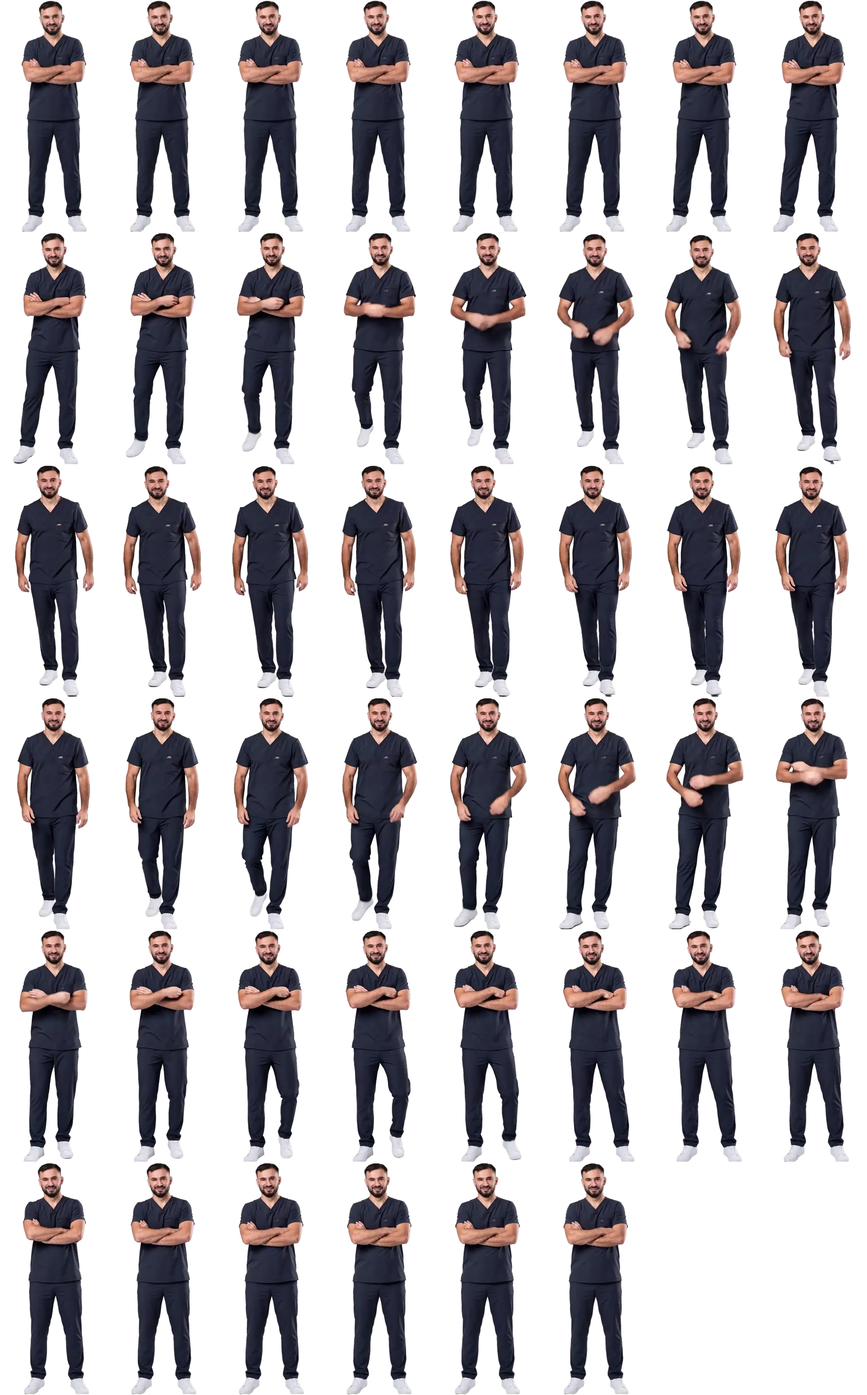
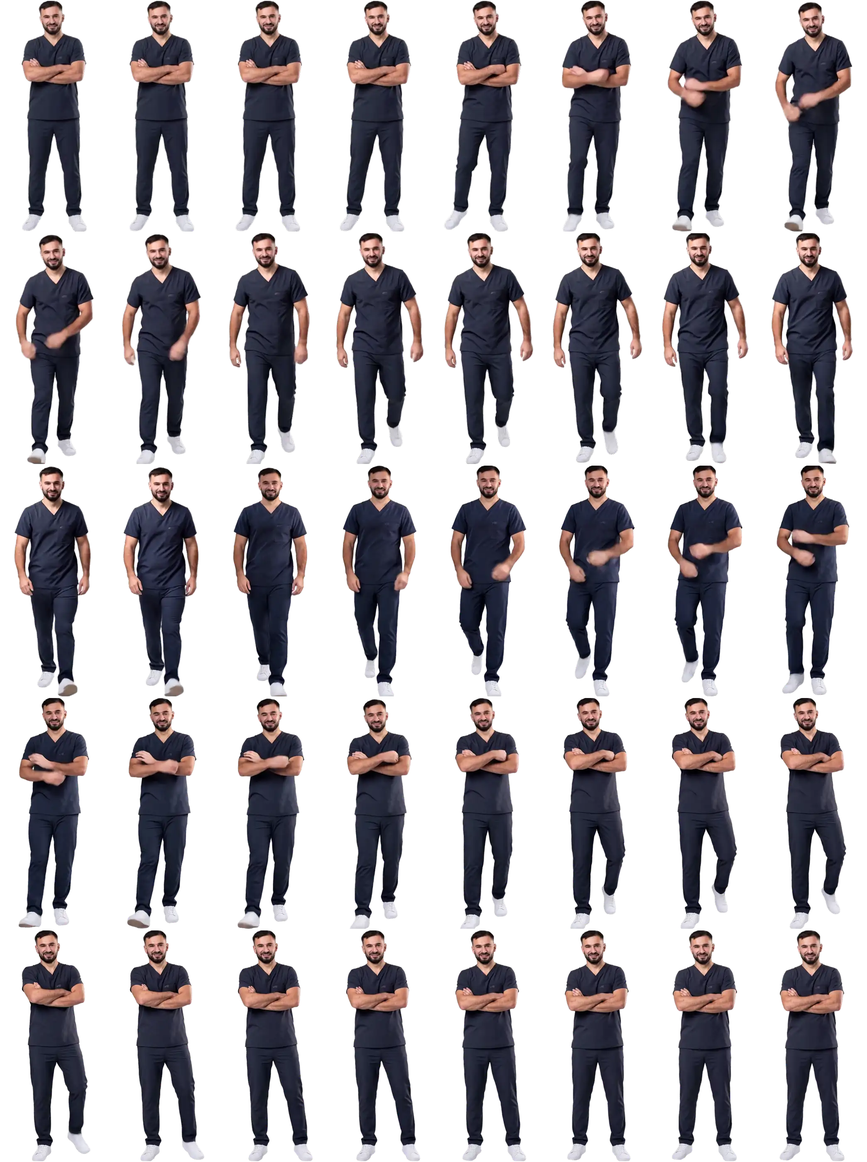
Сияние Севера: Намазов и остальные врачи идут настоящими шагами (#811)
Владелец, 16.11.2026, про Намазова: «У этого врача нет проходки, забыл о нем?»

Причина в самом ролике: при камере, едущей назад вместе с врачом, модель
двигала камеру, а ноги «плыли». У Намазова шагов к нам не было вовсе (одна
стойка 28 кадров подряд), у Кадиева так же со спины.

- Подход всех четырёх врачей переснят стоящей камерой: первый кадр ролика —
  врач далеко, последний — близко (figures/approach.py). Ему приходится
  шагать: ноги чередуются, видно, как ставит стопу. Так же переснят уход
  Кадиева.
- Путь по экрану записан по каждому кадру ленты (p в FIGS, data-p) по росту
  фигуры в ролике: врач смещается и растёт ровно так, как подошёл.
- Из середины вырезан один полный цикл шага там, где ноги и руки в той же
  фазе; шаги идут в 1,3 раза быстрее ролика, смена позы рук втрое. Лента
  2,2–2,3 с, как и раньше.
- Версия в адресах кадров (FIG_V, отпечаток всех tm-*.webp): файлы лежат под
  теми же именами с кэшем на неделю, без версии телефон, уже бывший на сайте,
  показал бы прежнюю ленту с новой разметкой.

Макет (content/proto-bundles/syanie.json) не менялся.

Claude-Session: https://claude.ai/code/session_01Y96RWicpa1Zecqua8BdKub

diff --git a/scripts/protos/syanie/app/site/team.js b/scripts/protos/syanie/app/site/team.js
@@ -13,8 +13,8 @@
    назад — те же кадры с конца). Лента — сетка кадров, её листает transform.
    Первый и последний кадр ленты — та же поза, что кадр врача, поэтому подмена
    не видна. Разворот — настоящий, с профилем: сжатия по ширине нет.
-   Шаги не скользят: по экрану врач смещается сам скрипт (--tx, --ty, --sc по
-   кадрам), и только на том отрезке ленты, где идут ноги (data-go).
+   Шаги не скользят: по экрану врача ведёт сам скрипт (--tx, --ty, --sc по
+   кадрам) по пути, записанному у ленты (data-p или data-go).
    Ленты «к нам» грузятся, когда блок на экране (медленная сеть и экономия
    трафика — по первому касанию врача), «от нас» и разворот — когда врач
    вышел. Нет ленты — врач переезжает плавно, без шагов, кадр лицом перетекает
@@ -60,8 +60,16 @@ function set(g,p){
   if(!p){g.style.removeProperty('--tx');g.style.removeProperty('--ty');g.style.removeProperty('--sc');return}
   g.style.setProperty('--tx',p.tx.toFixed(1)+'px');g.style.setProperty('--ty',p.ty.toFixed(1)+'px');g.style.setProperty('--sc',p.sc.toFixed(4));
 }
-/* Путь по кадрам: врач смещается, только пока идут ноги (отрезок go ленты), почти ровным ходом. */
-function path(i,a,b,go){var g=fig(i);return function(u){var v=(u-go[0])/(go[1]-go[0]);v=v<0?0:v>1?1:v;v=v*.6+v*v*(3-2*v)*.4;
+/* Путь по кадрам. У ленты, снятой стоящей камерой (data-p), путь записан по каждому кадру:
+   насколько врач подошёл в ролике, настолько он сместился и вырос на экране. У прежних лент
+   (data-go) врач смещается, только пока идут ноги, почти ровным ходом. */
+function prog(w){
+  var p=w.getAttribute('data-p');
+  if(p){p=p.split(',').map(Number);var m=p.length-1;return function(u){var x=u*(m+1),j=Math.min(m,Math.floor(x)),k=Math.min(m,j+1);return (p[j]+(p[k]-p[j])*(x-j))/1000}}
+  var go=(w.getAttribute('data-go')||'0,1').split(',').map(Number);
+  return function(u){var v=(u-go[0])/(go[1]-go[0]);v=v<0?0:v>1?1:v;return v*.6+v*v*(3-2*v)*.4};
+}
+function path(i,a,b,w){var g=fig(i),f=prog(w);return function(u){var v=f(u);v=v<0?0:v>1?1:v;
   set(g,{tx:a.tx+(b.tx-a.tx)*v,ty:a.ty+(b.ty-a.ty)*v,sc:a.sc+(b.sc-a.sc)*v})}}
 /* Листает ленту w за её время (data-ms): кадр — сдвигом сетки, tick — доля пути на каждом кадре экрана. */
 function run(s,k,w,rev,tick,done){
@@ -75,7 +83,6 @@ function run(s,k,w,rev,tick,done){
     s.classList.remove('tm-ws','tm-'+k+'-on');if(done)done();
   });
 }
-function goOf(w){return (w.getAttribute('data-go')||'0,1').split(',').map(Number)}
 /* Разворот: кадры настоящего поворота (лицо, профиль, спина); обратно — с конца. */
 function turn(s,back,done){
   ready(s,'t',function(w){
@@ -95,7 +102,7 @@ function enter(i,done){
   ready(s,'wf',function(w){
     if(!w){set(g,to);later(card,500);later(done,900);return}
     s.classList.add('tm-mv');later(card,+w.getAttribute('data-ms')*.62);
-    run(s,'wf',w,false,path(i,HOME,to,goOf(w)),function(){s.classList.remove('tm-mv');done()});
+    run(s,'wf',w,false,path(i,HOME,to,w),function(){s.classList.remove('tm-mv');done()});
   });
 }
 function leave(i,keep,done){
@@ -109,7 +116,7 @@ function leave(i,keep,done){
     ready(s,'wb',function(w){
       if(!w){set(g,null);later(home,900);return}
       s.classList.add('tm-mv');
-      run(s,'wb',w,false,path(i,from,HOME,goOf(w)),function(){set(g,null);s.classList.remove('tm-mv');home()});
+      run(s,'wb',w,false,path(i,from,HOME,w),function(){set(g,null);s.classList.remove('tm-mv');home()});
     });
   });
 }

diff --git a/scripts/protos/syanie/figures/sprite.py b/scripts/protos/syanie/figures/sprite.py
@@ -1,24 +1,36 @@
 # Кадры движения врача для «Наших врачей»: сетка кадров (COLS в ряд), её листает team.js.
-#   python3 -I sprite.py <f|b|t> <видео.mp4> <без-фона.mp4> <кэш-папка> <выход.webp> <рендер лицом.png> [<рендер спиной.png>]
-# f — идёт к нам (рамка кадра лицом), b — уходит (рамка кадра спиной), t — разворот лицом → спиной
-# (рамка плавно переходит от кадра лицом к кадру спиной: концы совпадают с обоими кадрами врача).
+#   python3 -I sprite.py <a|r|f|b|t> <видео.mp4> <без-фона.mp4> <кэш-папка> <выход.webp> <рендер лицом.png> [<рендер спиной.png>] [<масштаб,сдвиг x,сдвиг y>]
+# a — идёт к нам издалека, r — уходит вдаль: камера стоит, врач растёт или уменьшается в кадре
+# (первый и последний кадр ролика — approach.py; последним доводом — где фигура стоит в первом
+# кадре: у подхода числа «far», у ухода «near»). f и b — то же при камере, едущей за врачом
+# (так было сначала: ноги «плыли», у Намазова шагов к нам не было вовсе). t — разворот лицом →
+# спиной (рамка плавно переходит от кадра лицом к кадру спиной: концы совпадают с обоими кадрами
+# врача). Рамка: a, f — кадр лицом; r, b — кадр спиной.
 # Рамка шире кадра врача на PAD с каждой стороны: при шаге и развороте руки и ноги выходят за силуэт.
 # Фон: видео Higgsfield «без фона» приходит на чёрном, без прозрачности, поэтому прозрачность
 # считается сравнением с исходным роликом на сером фоне.
 # В ответе (в FIGS, catalog.mjs): n, cols, tw — сетка; ms — сколько лента играет на сайте;
-# go — доли ленты, между которыми идут ноги: только на этом отрезке врач смещается по экрану,
-# поэтому шаги не «скользят». Тон формы каждого кадра приводится к кадру лицом (tone.py).
+# p (подход издалека) — путь по кадрам ленты, 0…1000, по росту фигуры в ролике; go (уходит) —
+# доли ленты, между которыми идут ноги. По экрану врач смещается только по ним, поэтому шаги не
+# «скользят». Тон формы каждого кадра приводится к кадру лицом (tone.py).
 import json, os, subprocess, sys
 import numpy as np
 from PIL import Image, ImageFilter
 
 kind, vid, nobg, cache, out, front = sys.argv[1:7]
-back = sys.argv[7] if len(sys.argv) > 7 else None
+back = sys.argv[7] if len(sys.argv) > 7 and kind != "a" else None
+place = [float(x) for x in sys.argv[-1].split(",")] if kind in "ar" else None
+FAR = kind in "ar"   # камера стоит, путь врача — по его росту в кадре
 PAD, H, S = 0.32, 560, 0.6
 # Ходьба в роликах Kling медленнее живой (шаг около 0,8 с), поэтому лента играет в SPEED раз
 # быстрее ролика; кадров в ленте — FPS на секунду показа. Уходящий шагает весь ролик (5 с):
 # из середины вырезан кусок до LONG кадров ролика. Разворот — TURN кадров.
 SPEED, FPS, LONG, TURN = 1.6, 18, 68, 18
+# Подход издалека снят в живом темпе: шаги идут чуть быстрее ролика (WALK), а смена позы до и
+# после них (руки расходятся и складываются) — втрое быстрее (POSE): это не шаг, спешки не видно.
+WALK, POSE, LONG_A = 1.3, 3.0, 60
+if kind == "r":
+    WALK = 1.45   # обратно в строй — чуть живее: со спины темп читается меньше
 
 
 def body_box(im):
@@ -63,11 +75,21 @@ vw, vh = M[0].size
 small = [np.asarray(m.split()[3].resize((96, 172)), dtype=np.float32) / 255 for m in M]
 fr = Image.open(front).convert("RGBA")
 boxf = [v * vw / fr.width for v in body_box(fr)]
+def placed(im):
+    """Рамка фигуры в первом кадре ролика: рендер (шириной 3072) в масштабе place[0], сдвинут на place[1], place[2]."""
+    s0, ox, oy = place
+    k = 3072 / im.width
+    bb = [v * k for v in body_box(im)]
+    return [(bb[0] * s0 + ox) * vw / 3072, (bb[1] * s0 + oy) * vw / 3072, (bb[2] * s0 + ox) * vw / 3072, (bb[3] * s0 + oy) * vw / 3072]
+
+
+if kind == "a":
+    boxf = placed(fr)
 if back:
     bk = Image.open(back).convert("RGBA")
-    boxb = [v * vw / bk.width for v in body_box(bk)]
+    boxb = placed(bk) if kind == "r" else [v * vw / bk.width for v in body_box(bk)]
 
-base = boxb if kind == "b" else boxf
+base = boxb if kind in "br" else boxf
 ar = max((b[2] - b[0]) / (b[3] - b[1]) for b in ([boxf, boxb] if kind == "t" else [base]))
 tw = round(H * ar * (1 + 2 * PAD))
 
@@ -95,8 +117,10 @@ def tile(i, u=0.0, size=None):
         b = [boxf[q] + (boxb[q] - boxf[q]) * u for q in range(4)]
         hh, cx, bot = b[3] - b[1], (b[0] + b[2]) / 2, b[3]
     else:
+        # Рамка растёт вместе с фигурой (в подходе издалека — почти вдвое): её середина и низ
+        # отстоят от середины корпуса и от подошв на то же, что в первом кадре, в масштабе фигуры.
         k = hs[i] / hs[0]
-        hh, cx, bot = (base[3] - base[1]) * k, (base[0] + base[2]) / 2 + (cs[i] - cs[0]), base[3] + (ys[i] - ys[0])
+        hh, cx, bot = (base[3] - base[1]) * k, cs[i] + ((base[0] + base[2]) / 2 - cs[0]) * k, ys[i] + (base[3] - ys[0]) * k
     ww = hh * tw / H
     box = (round(cx - ww / 2), round(bot - hh), round(cx + ww / 2), round(bot))
     c = Image.new("RGBA", (box[2] - box[0], box[3] - box[1]), (0, 0, 0, 0))
@@ -123,6 +147,40 @@ if kind == "t":
     i1 = min(L - 2, L - next(i for i, d in enumerate(reversed(d1)) if d > 0.012) + 1)
     seq = [0] + list(range(i0, i1 + 1)) + [L - 1]
     note["span"] = [i0, i1, L]
+elif FAR:
+    # Камера стоит: врач растёт в кадре (подходит) или уменьшается (уходит), и его рост в кадре —
+    # точная мера пути. Идёт он там, где рост меняется.
+    h0, h1 = float(np.median(hs[:5])), float(np.median(hs[-5:]))
+    grow = np.maximum.accumulate(np.clip((hs - h0) / (h1 - h0), 0, 1))
+    w0 = int(np.where(grow < 0.02)[0][-1])
+    w1 = int(np.where(grow > 0.98)[0][0])
+    seq = list(range(L))
+    note["walk"] = [w0, w1, L]
+    note["grow"] = round(h1 / h0, 3)
+    if w1 - w0 > LONG_A + 8:
+        # Шагов в ролике больше, чем нужно пути по экрану: из середины вырезан целый шаг-другой
+        # там, где ноги и руки в той же фазе (кадры выровнены по росту, поэтому сравнимы).
+        def feat(i):
+            t = np.asarray(tile(i, size=SM), dtype=np.float32) / 255
+            a = t[..., 3]
+            return np.stack([a, t[..., :3].mean(axis=2) * a])
+        F = {i: feat(i) for i in range(w0, w1 + 1)}
+        want, best, land = (w1 - w0) - LONG_A, None, {}
+        for a_ in range(w0 + 10, w1 - 10):
+            for cut in range(max(8, want - 12), want + 13):
+                b_ = a_ + cut
+                if b_ > w1 - 10:
+                    continue
+                e = sum(float(np.abs(F[a_ + q] - F[b_ + q]).mean()) for q in (-2, -1, 0, 1, 2)) / 5
+                land[cut] = min(land.get(cut, 9), e)
+                if best is None or e < best[0]:
+                    best = (e, a_, b_)
+        e, a_, b_ = best
+        seq = [i for i in seq if i <= a_ or i > b_]
+        grow = np.where(np.arange(L) > b_, grow - (grow[b_] - grow[a_]), grow)
+        grow = grow / grow[-1]
+        note["cut"] = [a_, b_, round(e, 4)]
+        note["land"] = {k: round(v, 3) for k, v in sorted(land.items())}
 else:
     # Признаки кадра: силуэт и светлое в нём (кроссовки), в рамке плитки. Ноги — нижние 45%.
     def feat(i):
@@ -160,10 +218,19 @@ else:
         note["cut"] = [a_, b_, round(e, 4)]
 note["len"] = len(seq)
 
-ms = 840 if kind == "t" else round((len(seq) - 1) / 24 / SPEED * 1000)
-n = TURN if kind == "t" else min(48, round(ms / 1000 * FPS))
-COLS = 6 if n <= 36 else 8
-pick = [seq[round(i * (len(seq) - 1) / (n - 1))] for i in range(n)]
+if FAR:
+    # Время ленты: кадры ролика идут с разной скоростью (поза быстро, шаги живо), лента — ровно.
+    dt = np.array([1 / (WALK if w0 <= i < w1 else POSE) for i in seq[:-1]])
+    at = np.concatenate([[0], np.cumsum(dt)])
+    ms = round(float(at[-1]) / 24 * 1000)
+    n = min(48, round(ms / 1000 * FPS))
+    COLS = 6 if n <= 36 else 8
+    pick = [seq[int(round(float(np.interp(j * at[-1] / (n - 1), at, np.arange(len(seq))))))] for j in range(n)]
+else:
+    ms = 840 if kind == "t" else round((len(seq) - 1) / 24 / SPEED * 1000)
+    n = TURN if kind == "t" else min(48, round(ms / 1000 * FPS))
+    COLS = 6 if n <= 36 else 8
+    pick = [seq[round(i * (len(seq) - 1) / (n - 1))] for i in range(n)]
 tiles = []
 for j, i in enumerate(pick):
     u = j / (n - 1)
@@ -186,7 +253,10 @@ for j, t in enumerate(tiles):
     sheet.paste(t, ((j % COLS) * tw, (j // COLS) * H))
 sheet.save(out, "WEBP", quality=54, alpha_quality=40, method=6)
 res = {"kind": kind, "n": n, "tw": tw, "th": H, "cols": COLS, "rows": rows, "bytes": os.path.getsize(out), "ms": ms, "note": note}
-if kind != "t":
+if FAR:
+    # Путь по кадрам ленты, 0…1000: врач на экране смещается и растёт ровно так, как шёл в ролике.
+    res["p"] = [int(round(float(grow[i]) * 1000)) for i in pick]
+elif kind != "t":
     ja = next(j for j, i in enumerate(pick) if i >= w0)
     jb = max(j for j, i in enumerate(pick) if i <= w1)
     res["go"] = [round(ja / (n - 1), 2), round(jb / (n - 1), 2)]

diff --git a/scripts/protos/syanie/figures/approach.py b/scripts/protos/syanie/figures/approach.py
@@ -1,0 +1,45 @@
+# Первый и последний кадр ролика «врач идёт к камере издалека»: тот же рендер врача на сером
+# фоне, далеко (мелко, ноги выше) и близко (как в рендере). Камера стоит, врач растёт в кадре,
+# поэтому модели приходится делать настоящие шаги (при камере, едущей назад, ноги «плыли»).
+#   python3 -I approach.py <ключ> <папка рендеров> <папка выхода> [back]
+# С «back» — те же два кадра со спины (врач уходит от камеры: первый кадр близко, последний далеко).
+# Печатает, где стоит фигура в обоих кадрах (масштаб и сдвиг в точках рендера): числа первого
+# кадра ролика нужны sprite.py (подход — «far», уход — «near»).
+import json, os, sys
+import numpy as np
+from PIL import Image, ImageFilter, ImageDraw
+sys.path.insert(0, os.path.dirname(os.path.abspath(__file__)))
+from tone import solo, defringe
+
+key, SRC, OUT = sys.argv[1:4]
+BACK = len(sys.argv) > 4 and sys.argv[4] == "back"
+W, H = 3072, 5504
+FAR, NEAR = (0.47, 0.70), (0.90, 0.975)   # рост фигуры в долях кадра и где стоят ноги
+
+
+def body_box(im):
+    return im.split()[3].point(lambda v: 255 if v > 140 else 0).getbbox()
+
+
+a = np.asarray(Image.open(f"{SRC}/f-{key}.png").convert("RGB"), dtype=np.float32)
+top, bot = a[40:200, 40:400].reshape(-1, 3).mean(0), a[-260:-60, 40:400].reshape(-1, 3).mean(0)
+g = np.linspace(0, 1, H)[:, None, None]
+bg = Image.fromarray(np.broadcast_to(top[None, None, :] * (1 - g) + bot[None, None, :] * g, (H, W, 3)).astype(np.uint8))
+cut = Image.open(f"{SRC}/{'k' if BACK else 'c'}-{key}.png").convert("RGBA")
+if cut.size != (W, H):
+    cut = cut.resize((W, round(cut.height * W / cut.width)), Image.LANCZOS)   # рендер спиной вдвое мельче
+cut = defringe(solo(cut), 6, 2)
+bx = body_box(cut)
+res = {}
+for name, (frac, feet) in (("far", FAR), ("near", NEAR)):
+    s = frac * H / (bx[3] - bx[1])
+    fig = cut.resize((round(cut.width * s), round(cut.height * s)), Image.LANCZOS)
+    ox, oy = round(W / 2 - (bx[0] + bx[2]) / 2 * s), round(feet * H - bx[3] * s)
+    fw = (bx[2] - bx[0]) * s
+    sh = Image.new("L", (W, H), 0)
+    ImageDraw.Draw(sh).ellipse((W / 2 - fw * .6, feet * H - fw * .13, W / 2 + fw * .6, feet * H + fw * .03), fill=80)
+    out = Image.composite(Image.new("RGB", (W, H), (60, 62, 66)), bg, sh.filter(ImageFilter.GaussianBlur(fw * .06)))
+    out.paste(fig, (ox, oy), fig)
+    out.resize((1536, 2752), Image.LANCZOS).save(f"{OUT}/a-{key}-{'b' if BACK else ''}{name}.jpg", quality=93)
+    res[name] = {"s": round(s, 5), "ox": ox, "oy": oy}
+print(json.dumps(res))

diff --git a/scripts/protos/syanie/figures/README.md b/scripts/protos/syanie/figures/README.md
@@ -8,24 +8,30 @@
 | Файл | Что это | Чем собран |
 | --- | --- | --- |
 | `tm-<ключ>.webp`, `tm-<ключ>-b.webp` | врач лицом и спиной, высота 1200 | `stills.py` |
-| `tm-<ключ>-wf.webp` | идёт к нам | `sprite.py f` |
-| `tm-<ключ>-wb.webp` | уходит | `sprite.py b` |
+| `tm-<ключ>-wf.webp` | идёт к нам | `sprite.py a` |
+| `tm-<ключ>-wb.webp` | уходит | `sprite.py b` (Кадиев: `sprite.py r`) |
 | `tm-<ключ>-t.webp` | разворот лицом → спиной (обратно играет с конца) | `sprite.py t` |
 
-Числа, которые печатает `sprite.py` (`n`, `cols`, `tw`, `ms`, `go`), стоят в `FIGS`
-(`../catalog.mjs`); высота кадра ленты — `FIG_H`. Поменяли ленту — поменяли и `FIGS`,
-это держит тест «Наши врачи» в `tests/syanie-app.test.ts`.
+Числа, которые печатает `sprite.py` (`n`, `cols`, `tw`, `ms`, `p` или `go`), стоят в `FIGS`
+(`../catalog.mjs`); высота кадра ленты — `FIG_H`. Поменяли ленту или кадр — поменяли `FIGS`
+и версию в адресах: `node scripts/protos/syanie/figures/version.mjs write` (`FIG_V`: файлы
+лежат под теми же именами с кэшем на неделю). Это держит тест «Наши врачи» в
+`tests/syanie-app.test.ts`.
 
 ## Порядок
 
 1. Рендеры Nano Banana Pro по фото клиники: лицом на сером фоне (`f-<ключ>.png`), он же без
    фона (`c-<ключ>.png`), спиной без фона (`k-<ключ>.png`).
-2. Ролики Kling 3.0 (pro, 9:16, 5 с, без звука), первый и последний кадр заданы рендерами:
-   к нам (лицом → лицом), от нас (спиной → спиной), разворот (лицом → спиной).
+2. Ролики Kling 3.0 (pro, 9:16, 5 с, без звука), первый и последний кадр заданы:
+   разворот (рендер лицом → рендер спиной); ходьба — **стоящей камерой**: врач далеко →
+   близко (к нам) или близко → далеко (от нас), оба кадра пишет `approach.py` из рендера.
+   В запросе: камера не двигается и не приближает, шаги видны, ноги чередуются, реальный темп.
 3. У каждого ролика версия без фона (`remove_background`): она приходит на чёрном, без
    прозрачности, поэтому прозрачность считает `sprite.py` сравнением с исходным роликом.
 4. `python3 -I stills.py <папка рендеров> public/protos/syanie`
-5. `python3 -I sprite.py <f|b|t> <ролик> <ролик без фона> <папка кэша> <выход.webp> c-<ключ>.png [k-<ключ>.png]`
+5. `python3 -I sprite.py <a|r|f|b|t> <ролик> <ролик без фона> <папка кэша> <выход.webp> c-<ключ>.png [k-<ключ>.png] [<где фигура в первом кадре>]`
+   (`a`, `r` — стоящая камера, последним доводом числа из `approach.py`; `f`, `b` — прежние
+   ролики, где камера едет за врачом).
 
 Нужны `python3` с Pillow и numpy и `ffmpeg`.
 
@@ -33,12 +39,18 @@
 
 - **Разворот настоящий.** Сжатие кадра по ширине выглядело «врачом толщиной 1 мм»
   (владелец, 16.11.2026), поэтому поворот снят роликом: лицо, три четверти, профиль, спина.
-- **Шаги не скользят.** Камера в ролике отстаёт, фигура в середине ходьбы мельче и смещена:
-  каждый кадр приведён к росту и месту первого. По экрану врача ведёт `team.js` по тем же
-  кадрам и только на отрезке `go`, где идут ноги.
-- **Скорость.** Ходьба в роликах медленнее живой (шаг около 0,8 с), лента играет в 1,6 раза
-  быстрее ролика. У идущего к нам ходьба целиком (вырез давал скачок рук: врач разводит их
-  и снова складывает), у уходящего из середины вырезан кусок там, где шаг совпадает.
+- **Шаги настоящие только при стоящей камере.** Первые ролики ходьбы сняты камерой, едущей
+  за врачом («он остаётся того же размера»): модель двигала камеру, а ноги «плыли». У Намазова
+  шагов к нам не было вовсе (владелец, 16.11.2026: «У этого врача нет проходки, забыл о нем?»),
+  у Кадиева — от нас. Когда камера стоит, а врач идёт издалека, ему приходится шагать.
+  Новый ролик ходьбы — только так.
+- **Шаги не скользят.** Каждый кадр приведён к росту и месту первого, а рост врача в ролике
+  стоящей камеры — точная мера пути: он записан по кадрам (`p`), и `team.js` двигает и
+  увеличивает врача на экране ровно так же. У прежних роликов вместо этого отрезок `go`.
+- **Скорость.** Подход: шаги в 1,3 раза быстрее ролика (уход Кадиева — в 1,45), смена позы
+  рук до и после — втрое; из середины вырезан один полный цикл шага там, где ноги и руки в
+  той же фазе (в ответе `land` видно дно на длине цикла, около 29 кадров). Прежние ролики
+  ухода медленнее живых (шаг около 0,8 с) и идут в 1,6 раза быстрее.
 - **Тон формы.** Со спины рендер и ролик светлее: форма «меняла цвет» на развороте. Тон
   ткани каждого кадра приведён к кадру лицом (`tone.py`), светлая кайма фона по краю
   вырезки убрана, лишние пятна тени тоже.
@@ -55,5 +67,8 @@ kadiev `b3775c50-1512-4d5c-96a0-b1e047346c2a`. Спиной: doszhanov
 namazov `879d7872-d90e-4501-8214-e926726ed53d`, kadiev `0c6c89f1-dfa2-43c4-9e42-e640542fcbb6`.
 Развороты: kadiev `f5427ab8-6d91-44e2-8fc2-fbccca769e1f`, namazov
 `96607a0a-c5ee-4dda-bf5b-e0af427375dc`, doszhanov `d38f043a-8ede-40e9-af85-fac7568ab365`,
-kuznetsova `07cdd1fc-17db-4aa1-84fc-c02e051a1329`. Проба 3D:
-`23ab418c-2333-4296-be28-3f36464b20be`.
+kuznetsova `07cdd1fc-17db-4aa1-84fc-c02e051a1329`. Подход стоящей камерой: namazov
+`502a33b9-48ce-4ed5-84d0-468eb6dc61c4`, kadiev `4f64544c-98f0-4504-9770-4e06411b6a9f`,
+doszhanov `5c1ea22f-81ef-4234-96fd-467a69494c04`, kuznetsova
+`cc0525c7-e2fb-49a4-a94a-37ad12373e4f`; уход Кадиева `d4752d5b-2e62-4d27-b63c-8abfd46083fd`.
+Проба 3D: `23ab418c-2333-4296-be28-3f36464b20be`.

diff --git a/CLAUDE.md b/CLAUDE.md
@@ -238,10 +238,22 @@ https://devuz.studio/sia-cms/admin.
   `FIG_H`. Сжатия по ширине нет нигде: разворот играет лентой `t`, обратно —
   с конца. Шаги не скользят: по экрану врача ведёт `team.js` по кадрам
   (`path`), и только на отрезке `go`, где идут ноги; рост и место фигуры в
-  ленте выровнены (камера в ролике отстаёт). Ходьба в роликах медленнее живой,
-  лента идёт в 1,6 раза быстрее; у идущего к нам она целиком (вырез давал
-  скачок рук). Тон формы со спины приведён к кадру лицом, светлая кайма по
-  краю вырезок убрана. «К нам» грузится, когда блок на экране, «от нас» и
+  ленте выровнены (камера в ролике отстаёт). **Подход переснят стоящей
+  камерой** (владелец, 16.11.2026, про Намазова: «У этого врача нет проходки,
+  забыл о нем?»): при камере, едущей назад, ноги в ролике «плыли», у Намазова
+  шагов не было вовсе. Первый кадр ролика — врач далеко, последний — близко
+  (`figures/approach.py`), камера стоит, он идёт к ней и растёт в кадре: шаги
+  настоящие. Путь по экрану — `p` в `FIGS` (0…1000 по каждому кадру ленты, по
+  росту фигуры в ролике, `data-p`): врач смещается и растёт ровно так, как
+  подошёл. Из середины вырезан один полный цикл шага (стык там, где ноги и
+  руки в той же фазе), шаги идут в 1,3 раза быстрее ролика, смена позы рук —
+  втрое. Так же переснят уход Кадиева; уход остальных троих — прежние ролики
+  (камера едет за врачом, `go`, в 1,6 раза быстрее). Новый ролик ходьбы —
+  только стоящей камерой. **Версия в адресе кадров** (`FIG_V` → `?v=…`,
+  отпечаток всех `tm-*.webp`, пишет `figures/version.mjs write`): файлы лежат
+  под теми же именами с кэшем на неделю, без версии телефон, уже бывший на
+  сайте, показал бы прежнюю ленту с новой разметкой. Тон формы со спины
+  приведён к кадру лицом, светлая кайма по краю вырезок убрана. «К нам» грузится, когда блок на экране, «от нас» и
   разворот — когда врач вышел; нет ленты — плавный переезд, кадр лицом
   перетекает в кадр спиной. Другой врач при открытом: первый разворачивается и
   уходит, второй уже идёт; нажатие на ходу не теряется (`want`); нажатие
